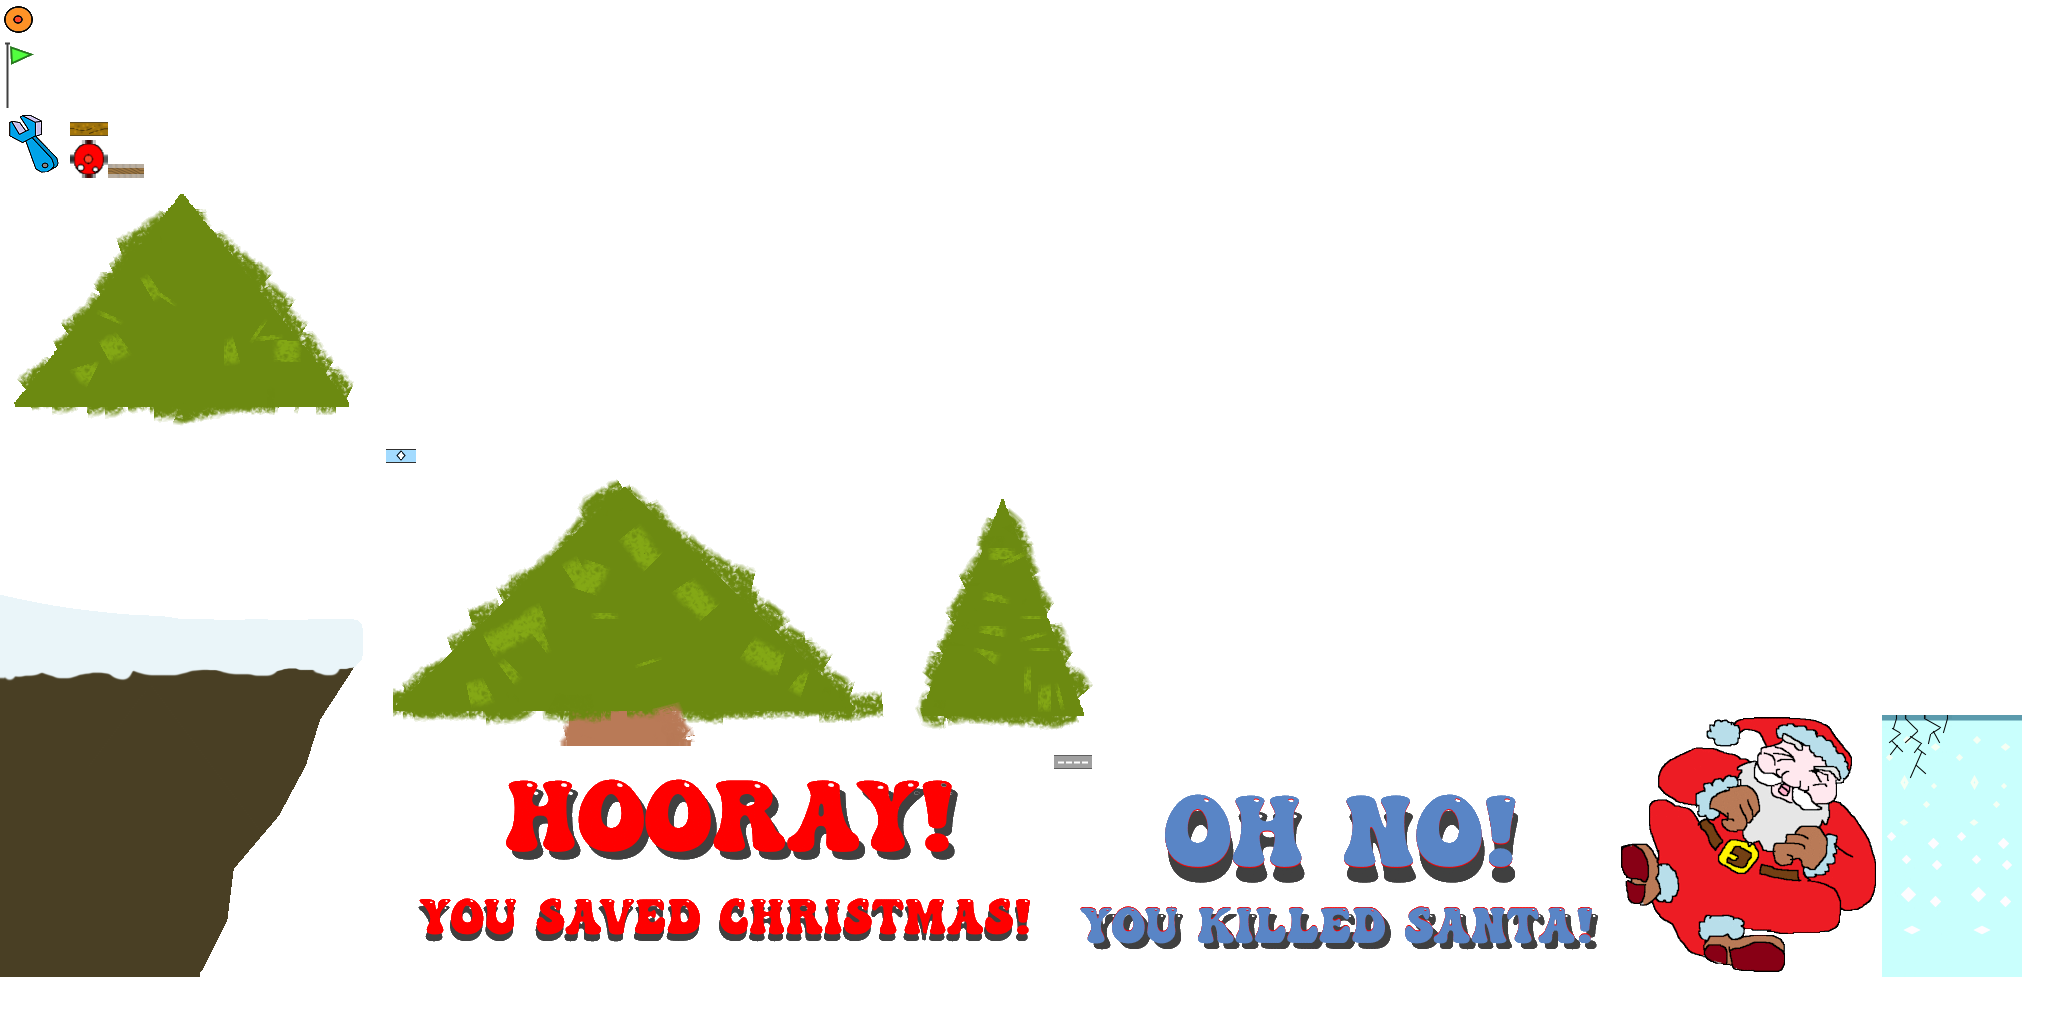
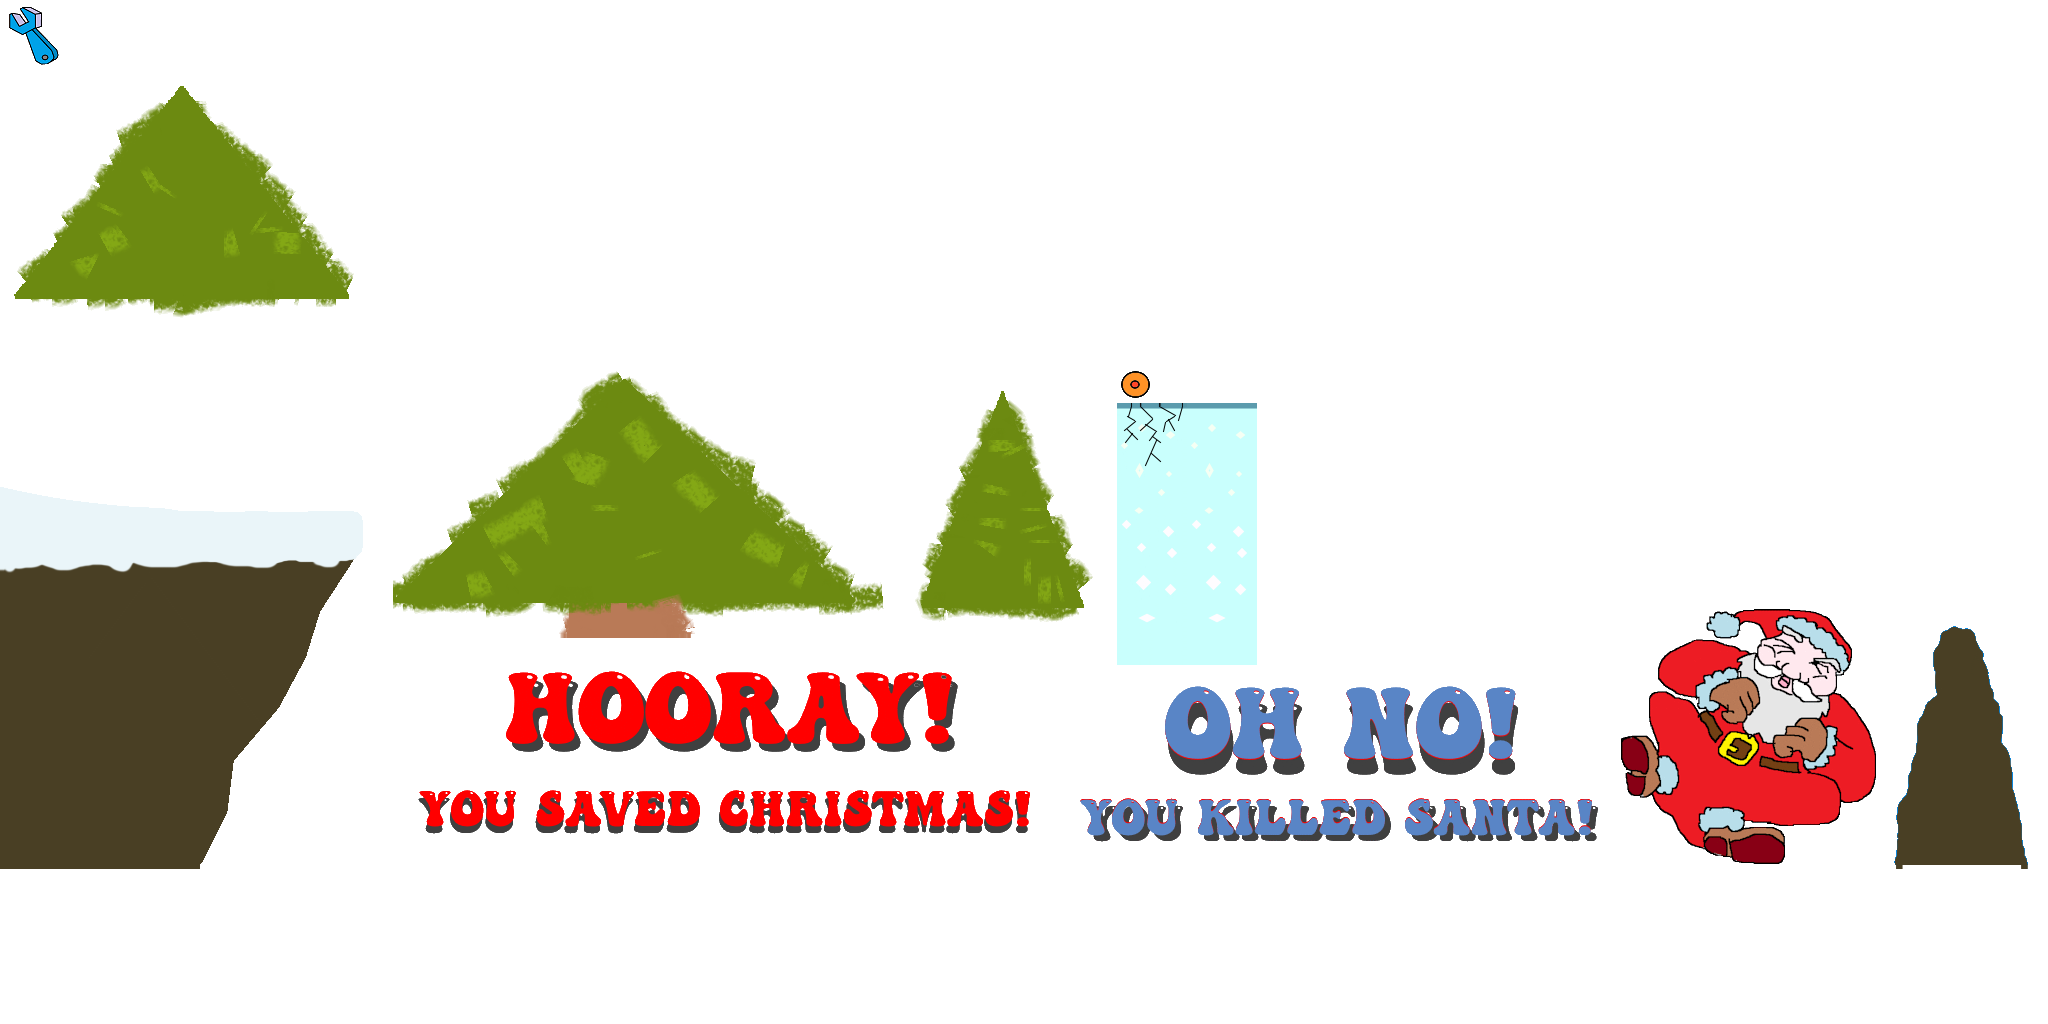
pillar sprite for centre anchors

diff --git a/core/src/main/java/com/monstrous/bridgebuilder/GameScreen.java b/core/src/main/java/com/monstrous/bridgebuilder/GameScreen.java
@@ -36,6 +36,7 @@ public class GameScreen extends StdScreenAdapter {
     private Pin currentPin;             // is not in pins, non-null during dragging
     private Beam currentBeam;           // is in beams
     private Pin overPin;                // highlighted pin, or null
+    private Beam overBeam;
     private final Vector2 worldPos = new Vector2();
     private final Vector2 startPos = new Vector2();
     private final Vector2 correctedPos = new Vector2();
@@ -99,6 +100,7 @@ public class GameScreen extends StdScreenAdapter {
             public boolean mouseMoved(int x, int y) {
                 screenToWorldUnits(x,y, worldPos);
                 checkOverPin(worldPos);
+                checkOverBeam(worldPos);
                 return false;
             }
 
@@ -137,6 +139,10 @@ public class GameScreen extends StdScreenAdapter {
                 if(runPhysics)
                     return false;
                 if(button == Input.Buttons.RIGHT){  // RMB to delete
+                    if(overBeam != null){
+                        deleteBeam(overBeam);
+                        overBeam = null;
+                    }
                     if(overPin != null) {
                         deletePin(overPin);
                         overPin = null;
@@ -227,7 +233,7 @@ public class GameScreen extends StdScreenAdapter {
 
     /** check if the mouse is over a pin and if so highlight it and assign it to 'overPin' */
     private void checkOverPin(Vector2 mousePosition) {
-        if (overPin != null)
+        if (overPin != null)    // unhighlight the "over" pin before testing again
             overPin.sprite.setColor(Color.WHITE);
         // check if the mouse is over a pin and if so highlight it
         overPin = null;
@@ -235,6 +241,21 @@ public class GameScreen extends StdScreenAdapter {
             if (pin.isOver(mousePosition)) {
                 overPin = pin;
                 overPin.sprite.setColor(Color.RED);
+                //System.out.println("highlight pin "+overPin.id);
+                break;
+            }
+        }
+    }
+
+    private void checkOverBeam(Vector2 mousePosition) {
+        if (overBeam != null)    // unhighlight the "over" pin before testing again
+            overBeam.sprite.setColor(Color.WHITE);
+        // check if the mouse is over a pin and if so highlight it
+        overBeam = null;
+        for (Beam beam : world.beams) {
+            if (beam.isOver(mousePosition)) {
+                overBeam = beam;
+                overBeam.sprite.setColor(Color.RED);
                 //System.out.println("highlight pin "+overPin.id);
                 break;
             }
@@ -267,6 +288,12 @@ public class GameScreen extends StdScreenAdapter {
     private void addBeam(Beam beam){
         physics.addBeam(beam);
         world.cost += beam.getCost();
+    }
+
+    private void deleteBeam(Beam beam){
+        world.cost -= beam.getCost();
+        physics.destroyBeam(beam);
+        world.beams.removeValue(beam, true);
     }
 
     private void destroyBeam(Beam beam){

diff --git a/core/src/main/java/com/monstrous/bridgebuilder/world/Pin.java b/core/src/main/java/com/monstrous/bridgebuilder/world/Pin.java
@@ -20,10 +20,12 @@ public class Pin implements Json.Serializable {
     public Vector2 position;
     public Sprite sprite;
     public Sprite cliffSprite;
+    public Sprite pillarSprite;
     public float W;
     public float H;
     public Body body;
     public float Wc, Hc;
+    public float Wp, Hp;
 
     public Pin(){
         id = nextId++;
@@ -45,6 +47,12 @@ public class Pin implements Json.Serializable {
         cliffSprite = new Sprite(regionCliff);
         cliffSprite.setOrigin(0.95f*Wc, 0.64f*Hc);
         cliffSprite.setSize(Wc, Hc);
+        TextureRegion regionPillar = Images.findRegion("pillar");
+        Wp = region.getRegionWidth() / 16f;
+        Hp = regionPillar.getRegionHeight() / 32f;
+        pillarSprite = new Sprite(regionPillar);
+        pillarSprite.setSize(Wp, Hp);
+        pillarSprite.setOrigin(0.5f*Wp, Hp);
     }
 
     public Pin(float x, float y) {
@@ -61,6 +69,7 @@ public class Pin implements Json.Serializable {
 
     public void setPosition(float x, float y){
         position.set(x,y);
+        pillarSprite.setOriginBasedPosition(x,y);
         cliffSprite.setOriginBasedPosition(x,y);
         sprite.setOriginBasedPosition(x,y);
 
@@ -82,6 +91,8 @@ public class Pin implements Json.Serializable {
             //cliffSprite.setOrigin(0.05f*Wc, 0.64f*Hc);
             cliffSprite.draw(spriteBatch);
         }
+        if(isAnchor && anchorDirection == 3)
+            pillarSprite.draw(spriteBatch);
         sprite.draw(spriteBatch);
 
             //spriteBatch.draw(cliffTexture, 0,0);

diff --git a/core/src/main/java/com/monstrous/bridgebuilder/physics/Physics.java b/core/src/main/java/com/monstrous/bridgebuilder/physics/Physics.java
@@ -59,6 +59,8 @@ public class Physics {
         floor.body = null;
     }
 
+    private final Vector2[] vertices = new Vector2[3];
+
     public void addRamp(Pin pin){
         if(pin.anchorDirection == 0)
             return;
@@ -75,8 +77,21 @@ public class Physics {
         PolygonShape rampBox = new PolygonShape();
         if(pin.anchorDirection == 3)
             rampBox.setAsBox(0.5f, 5f);
-        else
+        else if(pin.anchorDirection == 1){  // left side
+            // triangle is better approximation but positioning somehow depends on world scale
+//            vertices[0] = new Vector2(pin.position.x+7, pin.position.y+.5f);
+//            vertices[1] = new Vector2(pin.position.x, pin.position.y-15);
+//            vertices[2] = new Vector2(pin.position.x-10, pin.position.y+.5f);
+//            rampBox.set(vertices);
             rampBox.setAsBox(10, 0.5f);
+        } else {  // right side
+//            vertices[0] = new Vector2(pin.position.x-7, pin.position.y+.5f);
+//            vertices[1] = new Vector2(pin.position.x+10, pin.position.y+.5f);
+//            vertices[2] = new Vector2(pin.position.x, pin.position.y-15);
+//
+//            rampBox.set(vertices);
+            rampBox.setAsBox(10, 0.5f);
+        }
 
         rampBody.createFixture(rampBox, 0.0f);
         rampBox.dispose();

diff --git a/core/src/main/java/com/monstrous/bridgebuilder/world/Beam.java b/core/src/main/java/com/monstrous/bridgebuilder/world/Beam.java
@@ -4,9 +4,11 @@ import com.badlogic.gdx.graphics.Color;
 import com.badlogic.gdx.graphics.Texture;
 import com.badlogic.gdx.graphics.g2d.Sprite;
 import com.badlogic.gdx.graphics.g2d.TextureRegion;
+import com.badlogic.gdx.math.Intersector;
 import com.badlogic.gdx.math.Vector2;
 import com.badlogic.gdx.physics.box2d.Body;
 import com.badlogic.gdx.physics.box2d.Joint;
+import com.badlogic.gdx.utils.Array;
 import com.badlogic.gdx.utils.Json;
 import com.badlogic.gdx.utils.JsonValue;
 
@@ -78,6 +80,13 @@ public class Beam implements Json.Serializable {
         this.position2.set(end);
         sprite.setOriginBasedPosition(start.x, start.y);
         adaptShape();
+    }
+
+
+    public boolean isOver(Vector2 pos){
+
+        float dst =  Intersector.distanceSegmentPoint(position1, position2, pos);
+        return dst < 0.5*H;
     }
 
     private void adaptShape(){
